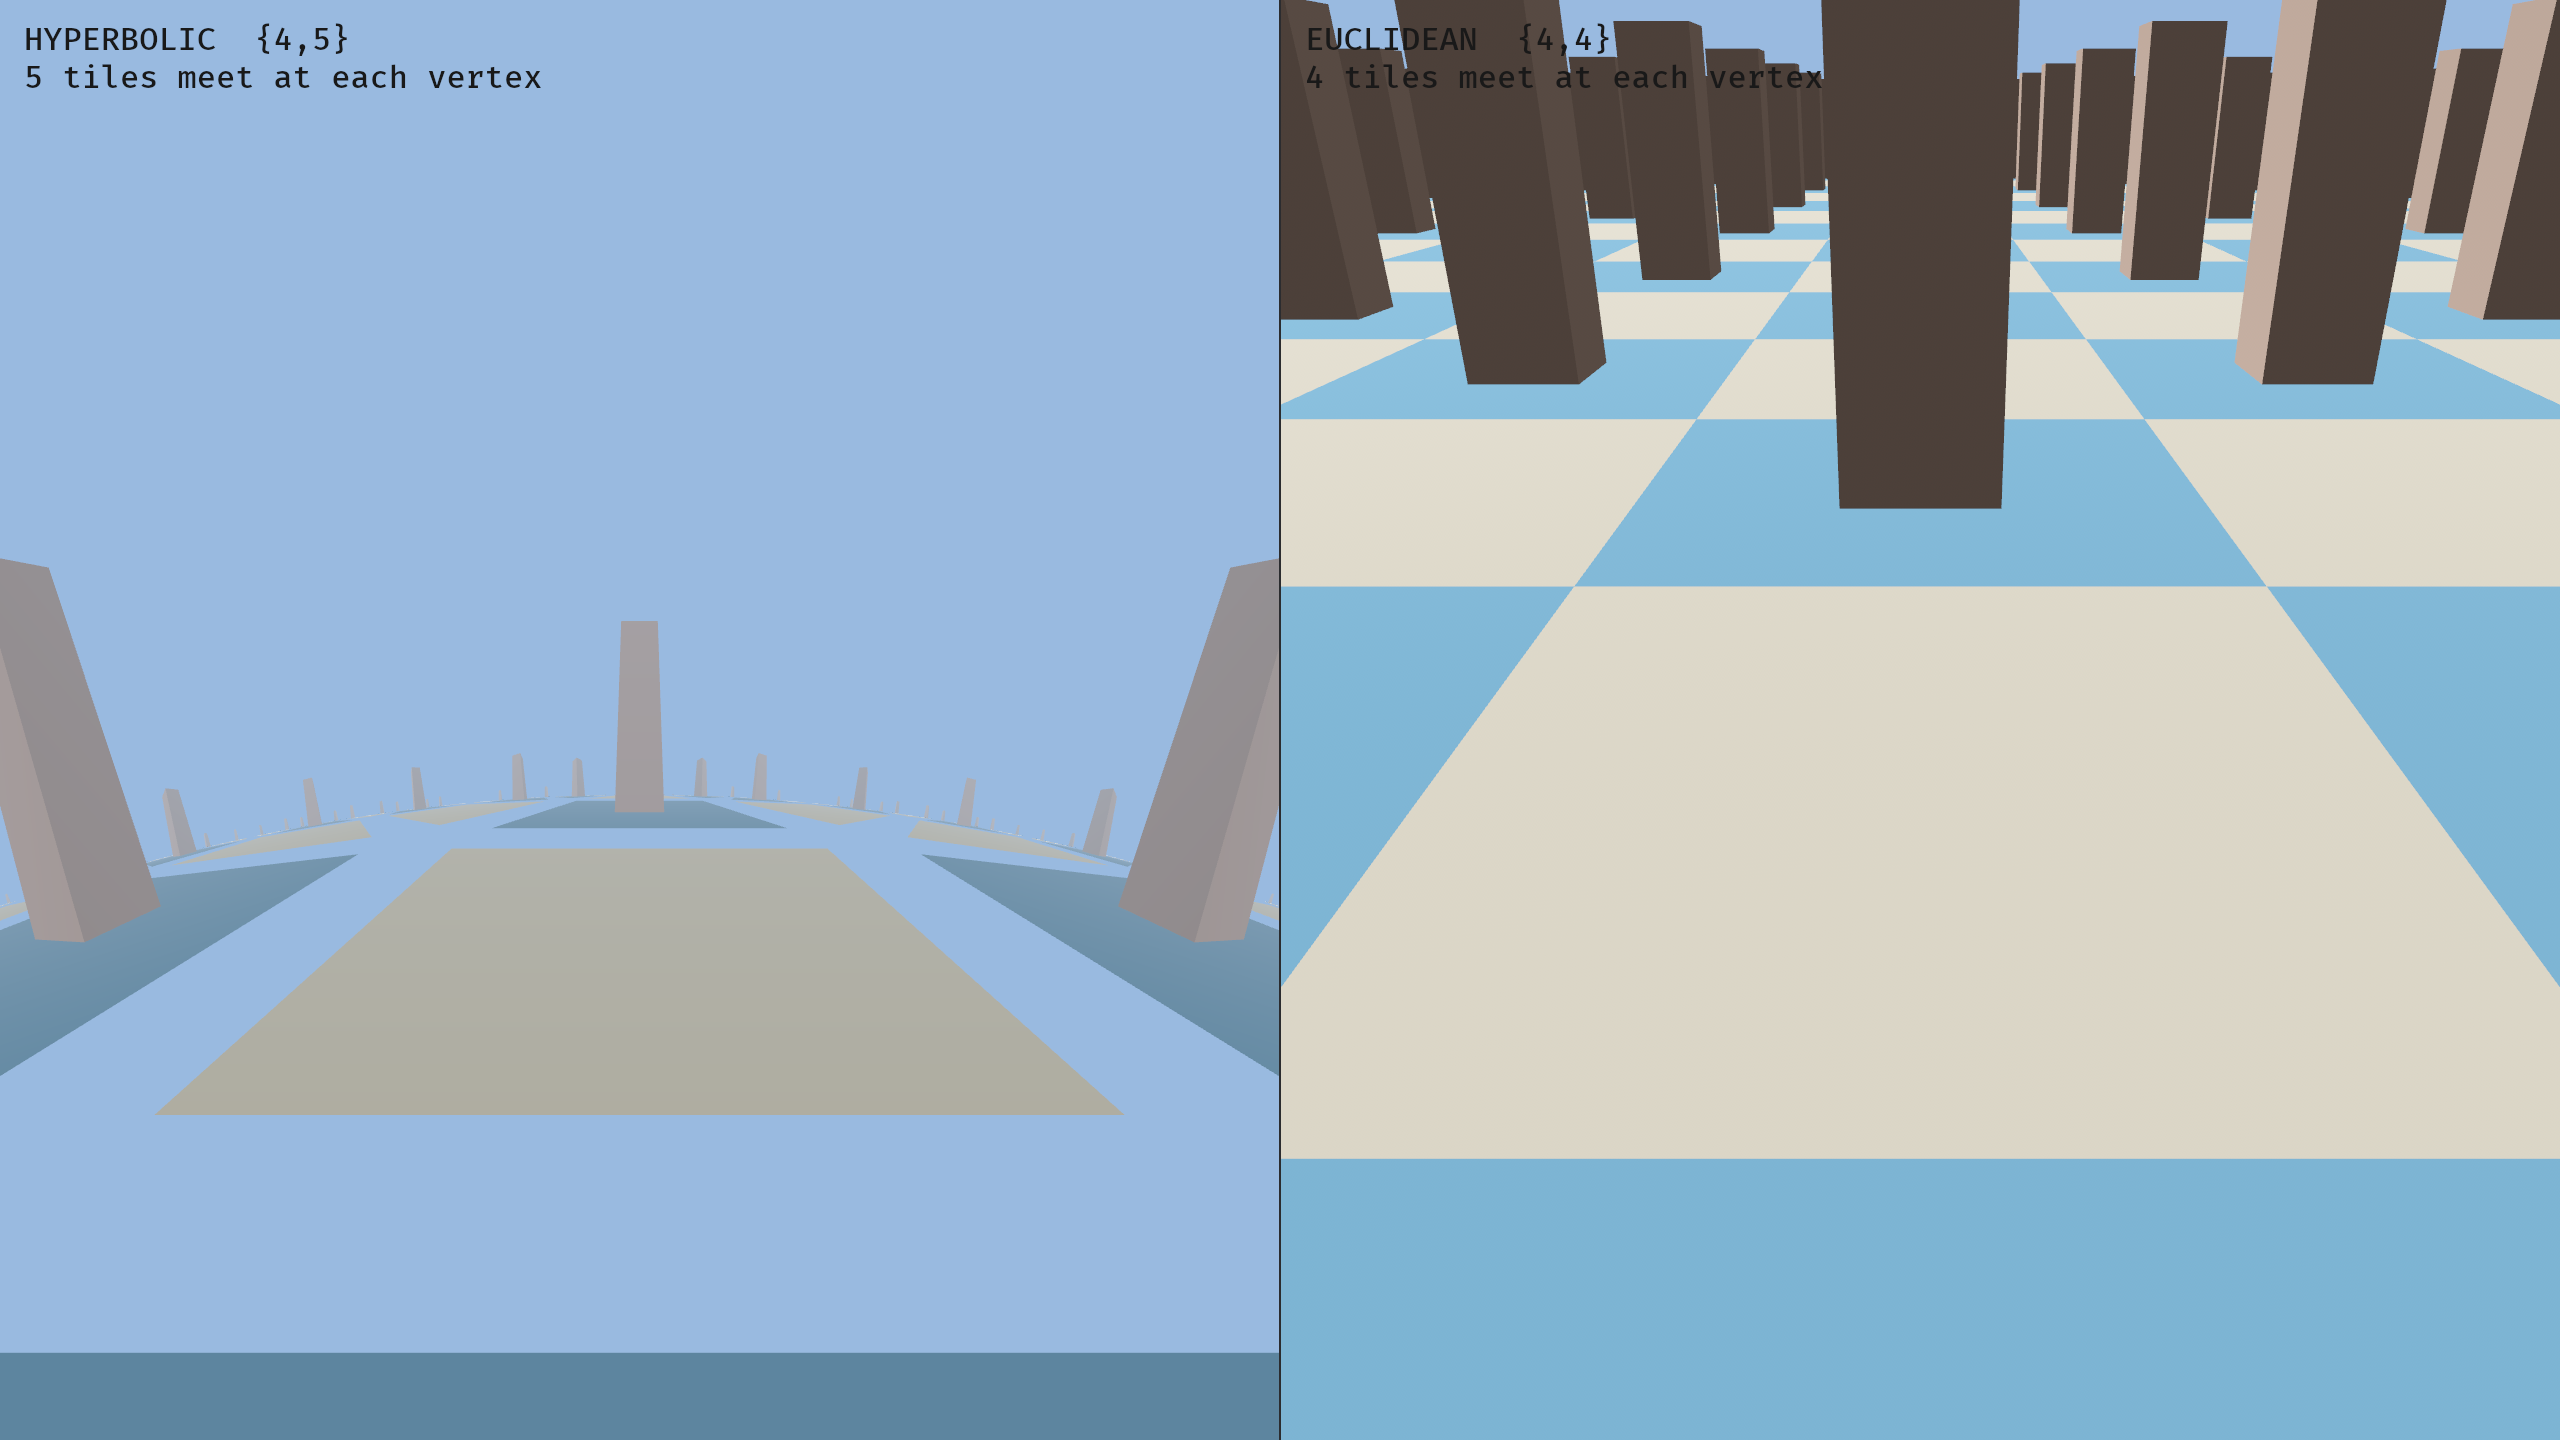
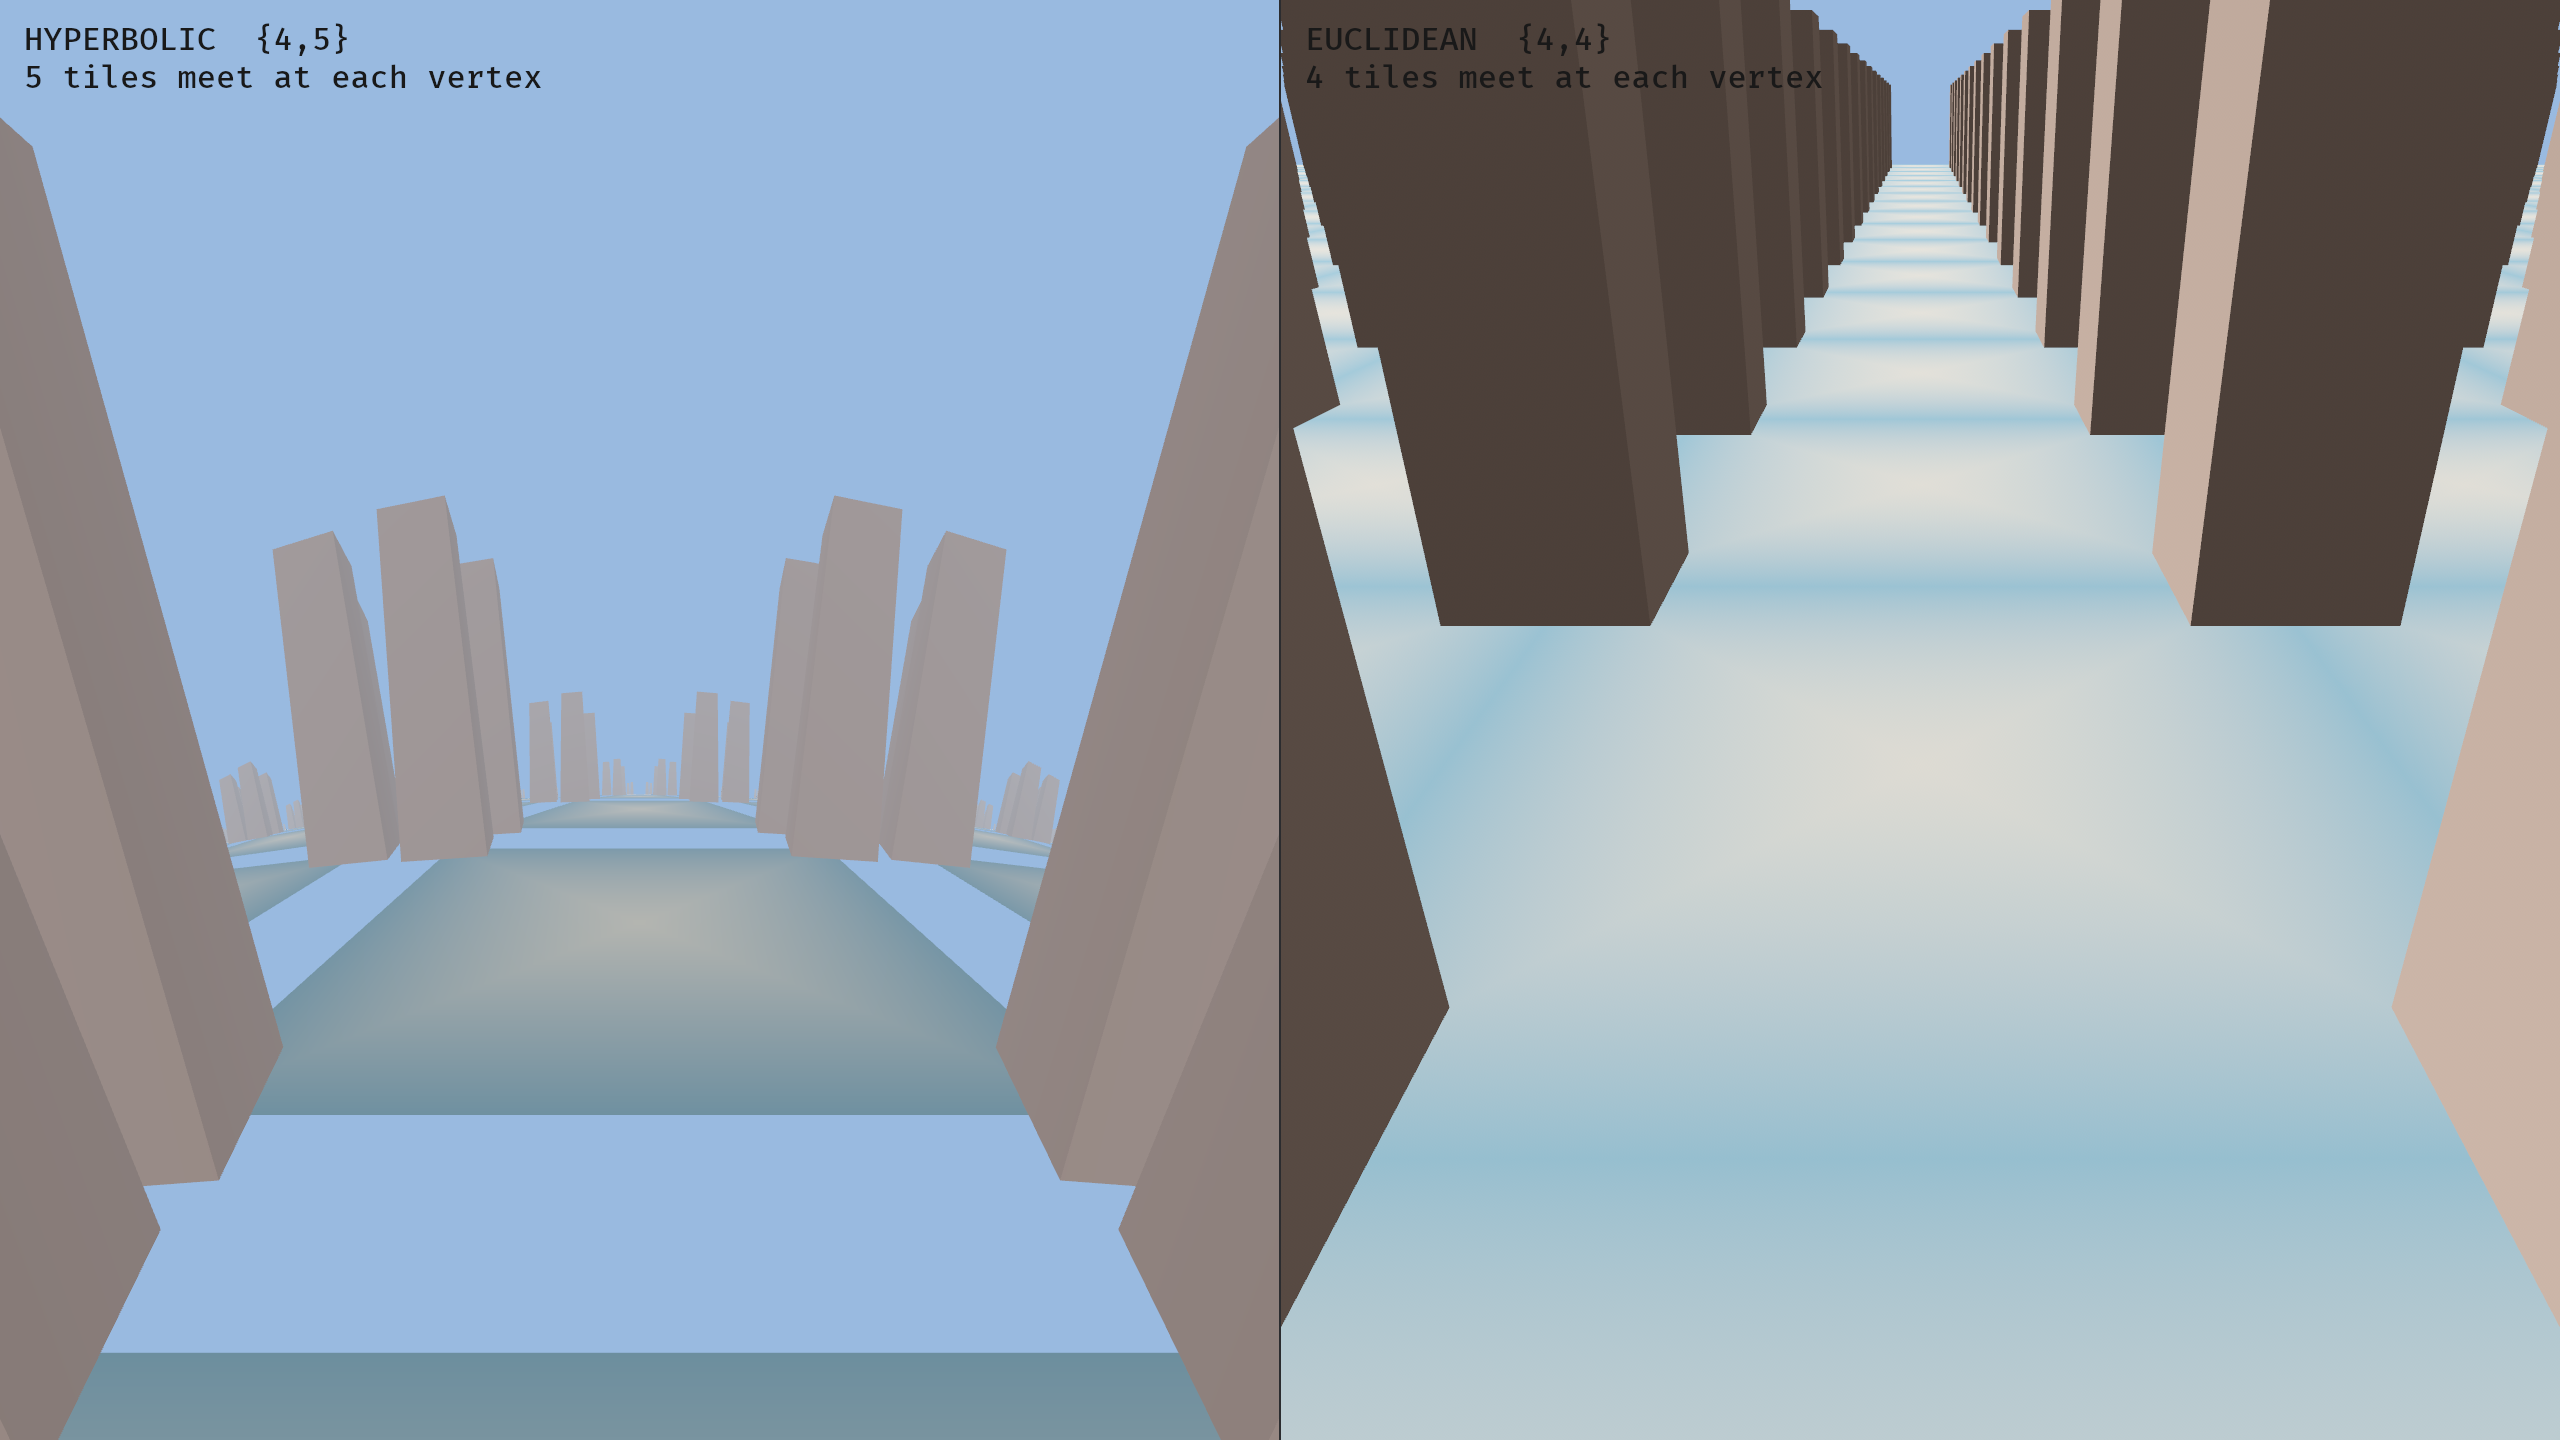
Fix abrupt tile color/pillar changes by making the world homogeneous
The floor was colored by distance-ring parity and pillars placed on even rings —
both defined relative to the origin. Recentering uses symmetries that act
transitively on tiles, so those origin-relative patterns flipped at each
recenter, causing tiles to jump color and pillars to pop.

The only seamless option is for every tile to look identical. So:
- floor tiles now use a uniform radial shade (light center -> dark rim) giving
  visible seams without distinguishing tiles
- pillars move to vertices (a single symmetry orbit), which is invariant under
  recentering and keeps tile centers clear for the player to stand on
The Euclidean half is rebuilt to match (uniform tiles + vertex pillars).

Verified: HYPER_WALK screenshot after ~35 units shows a homogeneous, edge-free
world identical in character to the start.

diff --git a/src/world.rs b/src/world.rs
@@ -30,6 +30,15 @@ const PILLAR_HEIGHT: f32 = 0.9;
 /// Half-size (circumradius) of a pillar's square cross-section.
 const PILLAR_RADIUS: f32 = 0.14;
 
+// Shared palette. Every tile is shaded identically (light center, dark rim) so
+// the floor is homogeneous — a requirement for seamless recentering, since the
+// recentering symmetries can map any tile onto any other.
+const FLOOR_CENTER: [f32; 4] = [0.85, 0.82, 0.70, 1.0];
+const FLOOR_EDGE: [f32; 4] = [0.18, 0.42, 0.54, 1.0];
+const PILLAR_SIDE: [f32; 4] = [0.55, 0.38, 0.30, 1.0];
+const PILLAR_SIDE_DARK: [f32; 4] = [0.40, 0.27, 0.21, 1.0];
+const PILLAR_CAP: [f32; 4] = [0.95, 0.75, 0.45, 1.0];
+
 /// Inradius (center → edge midpoint) and circumradius (center → vertex) of a
 /// regular {P,Q} tile, from the right-triangle relations of the (2,P,Q) triangle.
 fn tile_radii() -> (f32, f32) {
@@ -138,6 +147,26 @@ impl MeshBuilder {
         }
     }
 
+    /// Push a polygon as a fan from an explicit center vertex, with a different
+    /// color at the center than at the rim. Every tile gets the *same* treatment,
+    /// which is what makes recentering seamless: the tiling has no per-tile
+    /// distinction left to flip.
+    fn tile(&mut self, center: Vec4, rim: &[Vec4], c_center: [f32; 4], c_rim: [f32; 4]) {
+        let base = self.positions.len() as u32;
+        self.positions.push([center.x, center.y, center.z]);
+        self.colors.push(c_center);
+        for p in rim {
+            self.positions.push([p.x, p.y, p.z]);
+            self.colors.push(c_rim);
+        }
+        let n = rim.len() as u32;
+        for i in 0..n {
+            let a = base + 1 + i;
+            let b = base + 1 + (i + 1) % n;
+            self.indices.extend_from_slice(&[base, a, b]);
+        }
+    }
+
     fn build(self) -> Mesh {
         let mut mesh = Mesh::new(
             PrimitiveTopology::TriangleList,
@@ -150,19 +179,26 @@ impl MeshBuilder {
     }
 }
 
-/// Build the whole world mesh (floor tiles + pillars).
+/// A pure translation (no rotation) mapping the origin to a floor point.
+fn translation_to(p: Vec4) -> Mat4 {
+    let r = p.w.max(1.0).acosh();
+    let theta = p.z.atan2(p.x);
+    h::rot_y(theta) * h::boost_x(r) * h::rot_y(-theta)
+}
+
+/// Build the whole world mesh: a homogeneous {4,5} floor (every tile identical)
+/// plus a pillar at every vertex. Nothing distinguishes one tile from another,
+/// so recentering the player never causes a visible jump.
 pub fn build_world_mesh() -> Mesh {
     let (_, circumradius) = tile_radii();
     let tiles = generate_tiles();
     info!("generated {} hyperbolic tiles", tiles.len());
 
     let mut b = MeshBuilder::new();
+    let mut vertices: Vec<Vec4> = Vec::new();
 
-    // Two-tone checkerboard floor; tile shade keyed on BFS-ring parity.
-    let floor_a = [0.09, 0.34, 0.55, 1.0];
-    let floor_b = [0.80, 0.74, 0.55, 1.0];
-
-    for (m, ring) in &tiles {
+    for (m, _ring) in &tiles {
+        let center = *m * h::origin();
         // Corners of the regular P-gon, at the circumradius.
         let corners: Vec<Vec4> = (0..P)
             .map(|k| {
@@ -171,28 +207,63 @@ pub fn build_world_mesh() -> Mesh {
             })
             .collect();
 
-        let base = if ring % 2 == 0 { floor_a } else { floor_b };
-        b.polygon(&corners, base);
+        // Light center fading to a dark rim gives every tile a visible border
+        // (the "grout" between tiles) without distinguishing tiles from each other.
+        b.tile(center, &corners, FLOOR_CENTER, FLOOR_EDGE);
 
-        // Put a pillar on every other tile so the world has vertical structure
-        // and parallax without becoming a forest. Skip the origin tile so the
-        // player doesn't spawn inside a pillar.
-        if *ring != 0 && ring % 2 == 0 {
-            add_pillar(&mut b, *m);
+        // Record unique vertices for pillar placement.
+        for c in &corners {
+            let cs = c.truncate();
+            if !vertices.iter().any(|v| v.truncate().distance_squared(cs) < 1e-4) {
+                vertices.push(*c);
+            }
         }
+    }
+
+    // A pillar at every vertex (where five tiles meet). Vertices form a single
+    // symmetry orbit, so this is invariant under recentering, and they sit at the
+    // tile corners — clear of the tile centers where the player stands.
+    for v in &vertices {
+        add_pillar(&mut b, translation_to(*v));
     }
 
     b.build()
 }
 
+/// Add an axis-aligned square pillar standing on tile `m`'s center.
+fn add_pillar(b: &mut MeshBuilder, m: Mat4) {
+    // Base square corners on the floor (y = 0), in the tile's local frame.
+    let base_local: Vec<Vec4> = (0..4)
+        .map(|k| {
+            let a = PI / 4.0 + k as f32 * PI / 2.0;
+            h::floor_point(PILLAR_RADIUS, a)
+        })
+        .collect();
+    let lift = h::boost_y(PILLAR_HEIGHT);
+
+    // World-space base and top rings.
+    let base: Vec<Vec4> = base_local.iter().map(|p| m * *p).collect();
+    let top: Vec<Vec4> = base_local.iter().map(|p| m * (lift * *p)).collect();
+
+    // Four side walls.
+    for k in 0..4 {
+        let n = (k + 1) % 4;
+        let quad = [base[k], base[n], top[n], top[k]];
+        let c = if k % 2 == 0 { PILLAR_SIDE } else { PILLAR_SIDE_DARK };
+        b.polygon(&quad, c);
+    }
+    // Top cap.
+    b.polygon(&top, PILLAR_CAP);
+}
+
 // ---------------------------------------------------------------------------
 // Euclidean counterpart: an ordinary flat {4,4} grid (four squares per vertex),
-// for the split-screen comparison. Same tile size, colors, and pillar pattern,
-// but drawn with a normal Bevy camera + StandardMaterial so the *only*
-// difference between the two views is the curvature of space.
+// for the split-screen comparison. Identical per-tile treatment and pillars at
+// every vertex — matching the hyperbolic side — but drawn with a normal Bevy
+// camera + StandardMaterial, so the *only* difference is the curvature of space.
 // ---------------------------------------------------------------------------
 
-const GRID_RADIUS: i32 = 14;
+const GRID_RADIUS: i32 = 16;
 
 fn push_quad(
     pos: &mut Vec<[f32; 3]>,
@@ -212,56 +283,68 @@ fn push_quad(
     idx.extend_from_slice(&[base, base + 1, base + 2, base, base + 2, base + 3]);
 }
 
+/// One flat square tile, fan-shaded light center to dark rim (matches the
+/// hyperbolic tiles).
+fn push_floor_tile(
+    pos: &mut Vec<[f32; 3]>,
+    nor: &mut Vec<[f32; 3]>,
+    col: &mut Vec<[f32; 4]>,
+    idx: &mut Vec<u32>,
+    cx: f32,
+    cz: f32,
+) {
+    let base = pos.len() as u32;
+    pos.push([cx, 0.0, cz]);
+    nor.push([0.0, 1.0, 0.0]);
+    col.push(FLOOR_CENTER);
+    for (dx, dz) in [(-0.5, -0.5), (-0.5, 0.5), (0.5, 0.5), (0.5, -0.5)] {
+        pos.push([cx + dx, 0.0, cz + dz]);
+        nor.push([0.0, 1.0, 0.0]);
+        col.push(FLOOR_EDGE);
+    }
+    for i in 0..4u32 {
+        idx.extend_from_slice(&[base, base + 1 + i, base + 1 + (i + 1) % 4]);
+    }
+}
+
+/// One axis-aligned pillar centered at a grid vertex `(vx, vz)`.
+fn push_euclid_pillar(
+    pos: &mut Vec<[f32; 3]>,
+    nor: &mut Vec<[f32; 3]>,
+    col: &mut Vec<[f32; 4]>,
+    idx: &mut Vec<u32>,
+    vx: f32,
+    vz: f32,
+) {
+    let (hw, ph) = (PILLAR_RADIUS, PILLAR_HEIGHT);
+    let (x0, x1, z0, z1) = (vx - hw, vx + hw, vz - hw, vz + hw);
+    push_quad(pos, nor, col, idx,
+        [Vec3::new(x1,0.0,z0),Vec3::new(x1,0.0,z1),Vec3::new(x1,ph,z1),Vec3::new(x1,ph,z0)], Vec3::X, PILLAR_SIDE);
+    push_quad(pos, nor, col, idx,
+        [Vec3::new(x0,0.0,z1),Vec3::new(x0,0.0,z0),Vec3::new(x0,ph,z0),Vec3::new(x0,ph,z1)], -Vec3::X, PILLAR_SIDE);
+    push_quad(pos, nor, col, idx,
+        [Vec3::new(x1,0.0,z1),Vec3::new(x0,0.0,z1),Vec3::new(x0,ph,z1),Vec3::new(x1,ph,z1)], Vec3::Z, PILLAR_SIDE_DARK);
+    push_quad(pos, nor, col, idx,
+        [Vec3::new(x0,0.0,z0),Vec3::new(x1,0.0,z0),Vec3::new(x1,ph,z0),Vec3::new(x0,ph,z0)], -Vec3::Z, PILLAR_SIDE_DARK);
+    push_quad(pos, nor, col, idx,
+        [Vec3::new(x0,ph,z0),Vec3::new(x0,ph,z1),Vec3::new(x1,ph,z1),Vec3::new(x1,ph,z0)], Vec3::Y, PILLAR_CAP);
+}
+
 /// Build the flat Euclidean grid world (floor + pillars) as one normal mesh.
 pub fn build_euclidean_mesh() -> Mesh {
-    let floor_a = [0.09, 0.34, 0.55, 1.0];
-    let floor_b = [0.80, 0.74, 0.55, 1.0];
-    let side = [0.55, 0.38, 0.30, 1.0];
-    let side_dark = [0.40, 0.27, 0.21, 1.0];
-    let cap = [0.95, 0.75, 0.45, 1.0];
-
     let (mut pos, mut nor, mut col, mut idx) = (Vec::new(), Vec::new(), Vec::new(), Vec::new());
-    let hw = PILLAR_RADIUS; // reuse pillar footprint
-    let ph = PILLAR_HEIGHT;
 
+    // Floor tiles, centered on integer coordinates.
     for i in -GRID_RADIUS..=GRID_RADIUS {
         for j in -GRID_RADIUS..=GRID_RADIUS {
-            let (x, z) = (i as f32, j as f32);
-            let even = (i + j).rem_euclid(2) == 0;
-
-            // Floor tile (unit square, normal up).
-            let color = if even { floor_a } else { floor_b };
-            push_quad(
-                &mut pos,
-                &mut nor,
-                &mut col,
-                &mut idx,
-                [
-                    Vec3::new(x - 0.5, 0.0, z - 0.5),
-                    Vec3::new(x - 0.5, 0.0, z + 0.5),
-                    Vec3::new(x + 0.5, 0.0, z + 0.5),
-                    Vec3::new(x + 0.5, 0.0, z - 0.5),
-                ],
-                Vec3::Y,
-                color,
-            );
-
-            // Pillar on even tiles (skip the origin where the player spawns).
-            if even && !(i == 0 && j == 0) {
-                let (x0, x1, z0, z1) = (x - hw, x + hw, z - hw, z + hw);
-                // +x and -x walls, +z and -z walls.
-                push_quad(&mut pos, &mut nor, &mut col, &mut idx,
-                    [Vec3::new(x1,0.0,z0),Vec3::new(x1,0.0,z1),Vec3::new(x1,ph,z1),Vec3::new(x1,ph,z0)], Vec3::X, side);
-                push_quad(&mut pos, &mut nor, &mut col, &mut idx,
-                    [Vec3::new(x0,0.0,z1),Vec3::new(x0,0.0,z0),Vec3::new(x0,ph,z0),Vec3::new(x0,ph,z1)], -Vec3::X, side);
-                push_quad(&mut pos, &mut nor, &mut col, &mut idx,
-                    [Vec3::new(x1,0.0,z1),Vec3::new(x0,0.0,z1),Vec3::new(x0,ph,z1),Vec3::new(x1,ph,z1)], Vec3::Z, side_dark);
-                push_quad(&mut pos, &mut nor, &mut col, &mut idx,
-                    [Vec3::new(x0,0.0,z0),Vec3::new(x1,0.0,z0),Vec3::new(x1,ph,z0),Vec3::new(x0,ph,z0)], -Vec3::Z, side_dark);
-                // Cap.
-                push_quad(&mut pos, &mut nor, &mut col, &mut idx,
-                    [Vec3::new(x0,ph,z0),Vec3::new(x0,ph,z1),Vec3::new(x1,ph,z1),Vec3::new(x1,ph,z0)], Vec3::Y, cap);
-            }
+            push_floor_tile(&mut pos, &mut nor, &mut col, &mut idx, i as f32, j as f32);
+        }
+    }
+    // A pillar at every grid vertex (half-integer coordinates) — the analogue of
+    // the hyperbolic vertex pillars, and clear of the integer tile centers.
+    for i in -GRID_RADIUS..GRID_RADIUS {
+        for j in -GRID_RADIUS..GRID_RADIUS {
+            push_euclid_pillar(&mut pos, &mut nor, &mut col, &mut idx, i as f32 + 0.5, j as f32 + 0.5);
         }
     }
 
@@ -274,36 +357,6 @@ pub fn build_euclidean_mesh() -> Mesh {
     mesh.insert_attribute(Mesh::ATTRIBUTE_COLOR, col);
     mesh.insert_indices(Indices::U32(idx));
     mesh
-}
-
-/// Add an axis-aligned square pillar standing on tile `m`'s center.
-fn add_pillar(b: &mut MeshBuilder, m: Mat4) {
-    // Base square corners on the floor (y = 0), in the tile's local frame.
-    let base_local: Vec<Vec4> = (0..4)
-        .map(|k| {
-            let a = PI / 4.0 + k as f32 * PI / 2.0;
-            h::floor_point(PILLAR_RADIUS, a)
-        })
-        .collect();
-    let lift = h::boost_y(PILLAR_HEIGHT);
-
-    // World-space base and top rings.
-    let base: Vec<Vec4> = base_local.iter().map(|p| m * *p).collect();
-    let top: Vec<Vec4> = base_local.iter().map(|p| m * (lift * *p)).collect();
-
-    let side = [0.55, 0.38, 0.30, 1.0];
-    let side_dark = [0.40, 0.27, 0.21, 1.0];
-    let cap = [0.95, 0.75, 0.45, 1.0];
-
-    // Four side walls.
-    for k in 0..4 {
-        let n = (k + 1) % 4;
-        let quad = [base[k], base[n], top[n], top[k]];
-        let c = if k % 2 == 0 { side } else { side_dark };
-        b.polygon(&quad, c);
-    }
-    // Top cap.
-    b.polygon(&top, cap);
 }
 
 #[cfg(test)]

diff --git a/src/main.rs b/src/main.rs
@@ -391,9 +391,9 @@ fn screenshot_then_exit(
 ) {
     use bevy::render::view::screenshot::{save_to_disk, Screenshot};
     shot.frame += 1;
-    // Auto-walk forward ~35 units before capturing, to prove that recentering
-    // keeps the floor full far past the baked patch's radius.
-    if shot.frame < 90 {
+    // With HYPER_WALK set, auto-walk forward ~35 units before capturing, to prove
+    // that recentering keeps the floor full far past the baked patch's radius.
+    if shot.frame < 90 && std::env::var("HYPER_WALK").is_ok() {
         player.frame *= h::boost_z(-0.4);
         let fwd = (h::rot_y(player.e_yaw) * Vec4::new(0.0, 0.0, -0.4, 0.0)).truncate();
         player.e_pos += fwd;